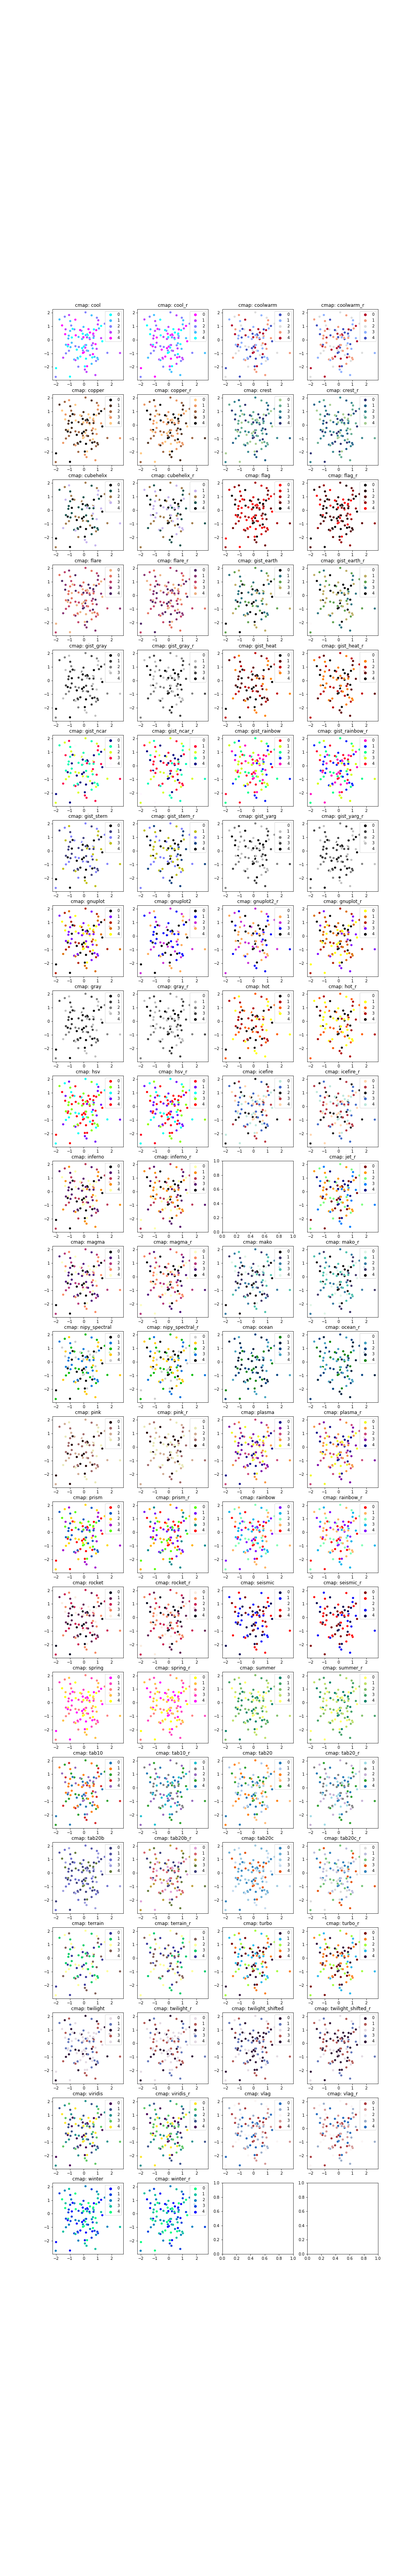
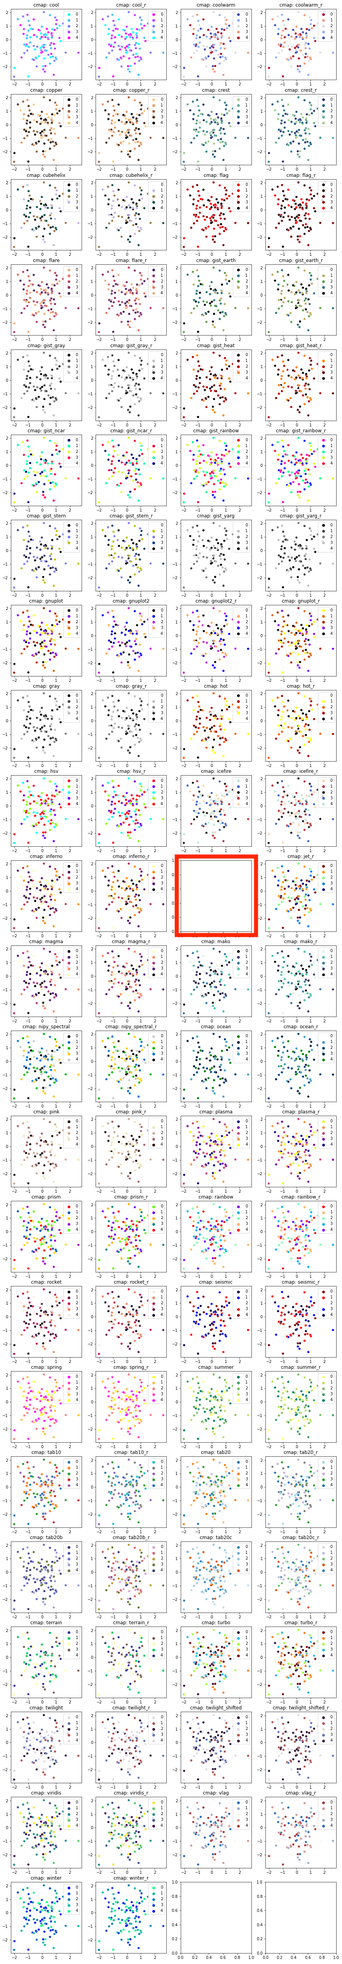
.

diff --git a/_posts/Visualization/2022-12-21-matplotlib-02.md b/_posts/Visualization/2022-12-21-matplotlib-02.md
@@ -23,17 +23,19 @@ import matplotlib.pyplot as plt
 print(plt.colormaps())
 ```
 
+<br>
+
 # <span class="half_HL">2. 색상 확인</span>
-
 **목적** : cmap 종류별로 어떤 색조합을 가지는지 확인한다.
-
 ## (1) 코드 공유
 ```python
 import numpy as np
+import seaborn as sns
 import matplotlib.pyplot as plt
 
 # cmap 리스트를 cmap_list 변수에 할당
 cmap_list = sorted(plt.colormaps())
+slice_num = int(len(cmap_list)/4)
 
 # 총 178개의 요소가 있어 두 차례 나눠서 시각화 진행, 두 리스트로 나누기
 cmap_list1 = cmap_list[:slice_num-1] # 88개
@@ -45,7 +47,7 @@ y = np.random.normal(0, 1, 100)
 h = np.random.randint(0, 5, 100)
 
 # 시각화 함수 생성
-def cmap_test(cmap_list, save_name):
+def draw_cmap_graph(cmap_list, save_filename):
     # 1을 더해준 이유 : 90//4 로 구하면 마지막 2개 그래프가 안그려짐 
     n_row = len(cmap_list)//4+1
     n_col = 4
@@ -54,19 +56,29 @@ def cmap_test(cmap_list, save_name):
     for i, cmap_name in enumerate(cmap_list):
         # 오류 메시지 발생하는 경우가 있어, try-except 사용
         try:
-            sns.scatterplot(x=x, y=y, hue=c, palette=cmap_name, ax=axes[i//4][i%4]).set_title(f"cmap: {cmap_name}")
+            sns.scatterplot(x=x, y=y, hue=h, palette=cmap_name, ax=axes[i//4][i%4]).set_title(f"cmap: {cmap_name}")
         except:
             pass
     # 생성된 그래프를 png 파일로 저장
-    plt.savefig(f'{save_name}.png')
+    plt.savefig(f'{save_filename}.png')
     plt.show()
 
-cmap_test(cmap_list1, 'cmap_list1')
-cmap_test(cmap_list2, 'cmap_list2')
+draw_cmap_graph(cmap_list1, 'cmap_list1')
 ```
 
 ## (2) 결과 공유
+2-2의 이미지를 보면, 그래프가 안그려진 부분(빨간색 네모 영역)이 있다. cmap_list2를 그렸을 때, warning sign이 떠서 try-expect 문을 추가했는데 경고 메시지가 뜬 이유가 빨간색 네모 영역에 해당하는 색상 정보 떄문이었다.
 
+✔ **Warning sign**
+- cmap_list의 요소 중 **'jet'** 을 사용해 그래프를 단독으로 그려보았을 때에도 ```ValueError: No``` 라는 메시지가 떴다. 
+- [stackoverflow 에 올라온 질문](https://stackoverflow.com/questions/67008798/seaborn-valueerror-no-for-palette-jet)의 답변을 통해 이유를 알 수 있었다.
+  - **seaborn** 에는 **jet** 컬러 팔레트가 지원되지 않는다는 것이다.
+  - **jet** 컬러는 사용하려면 <u>Matplotlib 을 사용하거나 사용자 지정 색상 팔레트를 사용해야한다는 점</u>을 알 수 있었다.
+- 위와 같은 점을 잘 고려하여 colormap을 사용해야겠다.
+
+✔ **seaborn에선 colomap 중 'jet'을 사용할 수 없다.**
+
+### 2-1. cmap_list1 결과
 ![cmap_list1 결과](/assets/images/cmap_list1.png)
-
+### 2-2. cmap_list2 결과
 ![cmap_list2 결과](/assets/images/cmap_list2.png)
